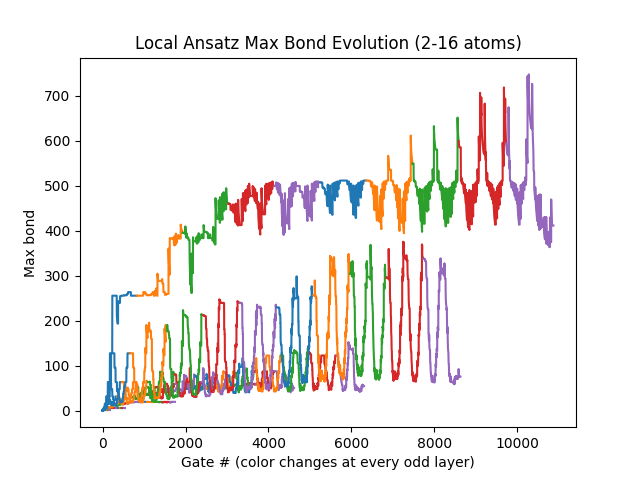
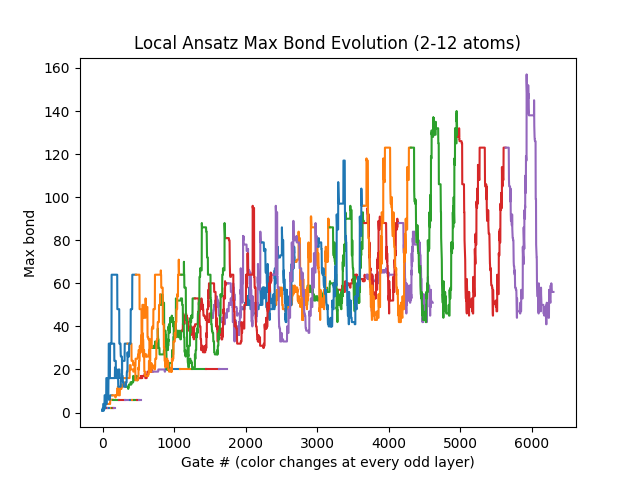
Removed cutoff for simulations

diff --git a/src/benchmarking.py b/src/benchmarking.py
@@ -427,6 +427,7 @@ def bond_evolution_sim(numAtoms, depth, locality):
     bonds = []
 
     for n in range(2, numAtoms+1, 2):
+    #for n in range(numAtoms, numAtoms+1, 2):
         circuit = None
         gate_data = []
         
@@ -448,7 +449,7 @@ def bond_evolution_sim(numAtoms, depth, locality):
 
 def benchmark_local():
     dep = 20 # try to get to depth of 30
-    maxAtoms = 16 # eventually fix atoms at ~30
+    maxAtoms = 12 # eventually fix atoms at ~30
     
     numGates, bonds = bond_evolution_sim(maxAtoms, dep, True) # LUCJ sim
 
@@ -500,12 +501,10 @@ def benchmark_local():
 
     plt.savefig("bench_local_plot.png")
 
-    plt.clf()
-
 
 def benchmark_nonlocal():
     dep = 20 # try to get to depth of 30
-    maxAtoms = 14 # eventually fix atoms at ~30
+    maxAtoms = 16 # eventually fix atoms at ~30
 
     colors = [
         "tab:blue",
@@ -553,7 +552,7 @@ def benchmark_nonlocal():
 
     plt.xlabel("Gate # (color changes at every odd layer)")
     plt.ylabel("Max bond")
-    plt.title(f"Non-Local Ansatz Max Bond Evolution ({2}-{maxAtoms} atoms)")
+    plt.title(f"Non-Local Ansatz Max Bond Evolution ({maxAtoms} atoms)")
 
     plt.savefig("bench_nonlocal_plot.png")
 